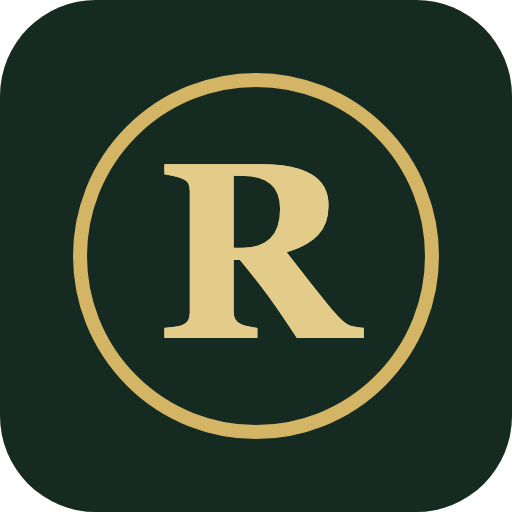
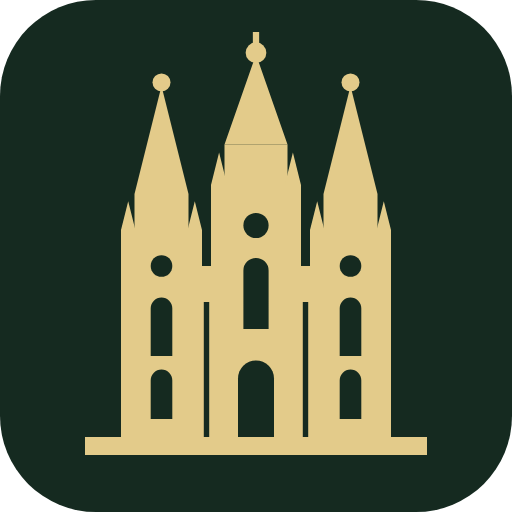
Apply review changes to the header and home page
Replace the R logo with a gold Salt Lake Temple and make the whole
site name gold. On the home page, drop the hero buttons, the record
counts and the line under the four cards, shorten the hero, and
show the featured place, person and revelation as a map, a portrait
and a page of scripture.

Changed region(s): [[0.125, 0.0625, 0.875, 0.9062]]

diff --git a/app/javascript/controllers/minimap_controller.js b/app/javascript/controllers/minimap_controller.js
@@ -1,0 +1,31 @@
+import { Controller } from "@hotwired/stimulus"
+import L from "leaflet"
+
+// A small, still map with one pin, used as a picture of where a place is.
+// It cannot be dragged or zoomed; the card it sits in is the link.
+export default class extends Controller {
+  static values = { lat: Number, lng: Number, zoom: { type: Number, default: 6 } }
+
+  connect() {
+    const position = [this.latValue, this.lngValue]
+
+    this.map = L.map(this.element, {
+      zoomControl: false, dragging: false, scrollWheelZoom: false, doubleClickZoom: false,
+      boxZoom: false, keyboard: false, touchZoom: false, tap: false
+    }).setView(position, this.zoomValue)
+
+    L.tileLayer("https://tile.openstreetmap.org/{z}/{x}/{y}.png", {
+      maxZoom: 18,
+      attribution: "&copy; OpenStreetMap contributors"
+    }).addTo(this.map)
+
+    L.marker(position, {
+      interactive: false, keyboard: false,
+      icon: L.divIcon({ className: "", html: '<span class="map-pin map-pin-visited"></span>', iconSize: [32, 32], iconAnchor: [16, 16] })
+    }).addTo(this.map)
+  }
+
+  disconnect() {
+    this.map?.remove()
+  }
+}

diff --git a/public/400.html b/public/400.html
@@ -11,8 +11,8 @@
       body { margin: 0; min-height: 100vh; display: flex; flex-direction: column; background: #fbf8f1; color: #1e293b;
              font-family: "Source Sans 3", ui-sans-serif, system-ui, -apple-system, "Segoe UI", sans-serif; font-size: 1.125rem; line-height: 1.6; }
       header { background: #152a20; padding: 1rem 1.5rem; }
-      header a { color: #fbf8f1; font-family: Georgia, "Times New Roman", serif; font-size: 1.25rem; font-weight: 700; text-decoration: none; }
-      header span { color: #e3cb8a; font-weight: 400; }
+      header a { color: #e3cb8a; font-family: Georgia, "Times New Roman", serif; font-size: 1.25rem; font-weight: 700; text-decoration: none; }
+      header span { font-weight: 400; }
       main { flex: 1; display: flex; align-items: center; justify-content: center; padding: 3rem 1.5rem; }
       .box { max-width: 36rem; text-align: center; }
       .code { margin: 0; color: #6f581b; font-size: 0.875rem; font-weight: 600; letter-spacing: 0.15em; text-transform: uppercase; }

diff --git a/public/404.html b/public/404.html
@@ -11,8 +11,8 @@
       body { margin: 0; min-height: 100vh; display: flex; flex-direction: column; background: #fbf8f1; color: #1e293b;
              font-family: "Source Sans 3", ui-sans-serif, system-ui, -apple-system, "Segoe UI", sans-serif; font-size: 1.125rem; line-height: 1.6; }
       header { background: #152a20; padding: 1rem 1.5rem; }
-      header a { color: #fbf8f1; font-family: Georgia, "Times New Roman", serif; font-size: 1.25rem; font-weight: 700; text-decoration: none; }
-      header span { color: #e3cb8a; font-weight: 400; }
+      header a { color: #e3cb8a; font-family: Georgia, "Times New Roman", serif; font-size: 1.25rem; font-weight: 700; text-decoration: none; }
+      header span { font-weight: 400; }
       main { flex: 1; display: flex; align-items: center; justify-content: center; padding: 3rem 1.5rem; }
       .box { max-width: 36rem; text-align: center; }
       .code { margin: 0; color: #6f581b; font-size: 0.875rem; font-weight: 600; letter-spacing: 0.15em; text-transform: uppercase; }

diff --git a/public/422.html b/public/422.html
@@ -11,8 +11,8 @@
       body { margin: 0; min-height: 100vh; display: flex; flex-direction: column; background: #fbf8f1; color: #1e293b;
              font-family: "Source Sans 3", ui-sans-serif, system-ui, -apple-system, "Segoe UI", sans-serif; font-size: 1.125rem; line-height: 1.6; }
       header { background: #152a20; padding: 1rem 1.5rem; }
-      header a { color: #fbf8f1; font-family: Georgia, "Times New Roman", serif; font-size: 1.25rem; font-weight: 700; text-decoration: none; }
-      header span { color: #e3cb8a; font-weight: 400; }
+      header a { color: #e3cb8a; font-family: Georgia, "Times New Roman", serif; font-size: 1.25rem; font-weight: 700; text-decoration: none; }
+      header span { font-weight: 400; }
       main { flex: 1; display: flex; align-items: center; justify-content: center; padding: 3rem 1.5rem; }
       .box { max-width: 36rem; text-align: center; }
       .code { margin: 0; color: #6f581b; font-size: 0.875rem; font-weight: 600; letter-spacing: 0.15em; text-transform: uppercase; }

diff --git a/public/500.html b/public/500.html
@@ -11,8 +11,8 @@
       body { margin: 0; min-height: 100vh; display: flex; flex-direction: column; background: #fbf8f1; color: #1e293b;
              font-family: "Source Sans 3", ui-sans-serif, system-ui, -apple-system, "Segoe UI", sans-serif; font-size: 1.125rem; line-height: 1.6; }
       header { background: #152a20; padding: 1rem 1.5rem; }
-      header a { color: #fbf8f1; font-family: Georgia, "Times New Roman", serif; font-size: 1.25rem; font-weight: 700; text-decoration: none; }
-      header span { color: #e3cb8a; font-weight: 400; }
+      header a { color: #e3cb8a; font-family: Georgia, "Times New Roman", serif; font-size: 1.25rem; font-weight: 700; text-decoration: none; }
+      header span { font-weight: 400; }
       main { flex: 1; display: flex; align-items: center; justify-content: center; padding: 3rem 1.5rem; }
       .box { max-width: 36rem; text-align: center; }
       .code { margin: 0; color: #6f581b; font-size: 0.875rem; font-weight: 600; letter-spacing: 0.15em; text-transform: uppercase; }

diff --git a/test/integration/home_page_test.rb b/test/integration/home_page_test.rb
@@ -1,13 +1,12 @@
 require "test_helper"
 
 class HomePageTest < ActionDispatch::IntegrationTest
-  test "shows the hero and both calls to action" do
+  test "shows a compact hero with no buttons" do
     get root_path
 
     assert_response :success
     assert_select "h1", text: "Explore the Restoration"
-    assert_select "a[href=?]", timeline_path, text: "Explore the Timeline"
-    assert_select "a[href=?]", road_trip_path, text: "Start the Road Trip"
+    assert_select "section:first-of-type a", count: 0
   end
 
   test "shows the four navigation cards" do
@@ -25,7 +24,7 @@ class HomePageTest < ActionDispatch::IntegrationTest
     assert_select "#featured-heading", count: 0
   end
 
-  test "shows an event that happened on this day" do
+  test "shows a banner for an event that happened on this day" do
     create_event
     create_event("First Vision", start_date: Date.new(1820, 3, 1), date_precision: "year", category: "revelations", period: "new_york")
 
@@ -33,31 +32,43 @@ class HomePageTest < ActionDispatch::IntegrationTest
       get root_path
     end
 
-    assert_select "a[href=?]", event_path("kirtland-temple-dedication") do
-      assert_select "p", text: "On this day in Church history"
-    end
+    assert_select "section[aria-label='On this day in Church history'] a[href=?]", event_path("kirtland-temple-dedication"),
+      text: /March 27, 1836: Kirtland Temple dedication/
   end
 
-  test "falls back to a featured event on other days" do
+  test "shows no banner on other days" do
     create_event
 
     travel_to Time.zone.local(2026, 11, 18, 12) do
       get root_path
     end
 
-    assert_select "a[href=?]", event_path("kirtland-temple-dedication") do
-      assert_select "p", text: "Featured event"
-    end
+    assert_select "section[aria-label='On this day in Church history']", count: 0
   end
 
-  test "features a person and a revelation and counts the records" do
-    create_person
-    create_revelation(76, received_on: Date.new(1832, 2, 16))
+  test "features a place as a map, a person as a portrait and a revelation as a page" do
+    create_place(state: "Ohio", latitude: 41.6253, longitude: -81.3622, trail_order: 4, summary: "Site of the first temple.")
+    create_place("Unmapped")
+    create_person(clues: [ "I was born in Vermont in 1805." ], roles: "Prophet")
+    create_revelation(76, received_on: Date.new(1832, 2, 16), summary: "A vision of the kingdoms of glory.")
 
     get root_path
 
-    assert_select "a[href=?]", person_path("joseph-smith")
-    assert_select "a[href=?]", revelation_path("doctrine-and-covenants-76"), text: /D&C 76/
-    assert_select "dl dt", text: "people"
+    assert_select "article a[href=?]", road_trip_path(place: "kirtland"), text: "Kirtland"
+    assert_select "[data-controller=minimap][data-minimap-lat-value='41.6253'][data-minimap-lng-value='-81.3622']"
+    assert_select "article span", text: "Stop 4 on the road trip"
+
+    assert_select "article a[href=?]", person_path("joseph-smith"), text: "Joseph Smith"
+    assert_select "article blockquote", text: /I was born in Vermont in 1805/
+    assert_select "article span", text: "JS"
+
+    assert_select "article a[href=?]", revelation_path("doctrine-and-covenants-76"), text: /Section\s+76/
+    assert_select "article p", text: "A vision of the kingdoms of glory."
+  end
+
+  test "no longer shows record counts" do
+    create_event
+    get root_path
+    assert_select "dl", count: 0
   end
 end

diff --git a/app/controllers/pages_controller.rb b/app/controllers/pages_controller.rb
@@ -2,12 +2,12 @@ class PagesController < ApplicationController
   def home
     today = Date.current
 
+    # Shown only on days when something in the database happened.
     @on_this_day = Event.on_this_day(today).chronological.first
-    @featured_event = @on_this_day || pick_for(today, Event.chronological)
-    @featured_person = pick_for(today, Person.order(:name))
-    @featured_revelation = pick_for(today, Revelation.order(:section_number))
 
-    @counts = { "events" => Event.count, "places" => Place.count, "people" => Person.count, "revelations" => Revelation.count }
+    @featured_place = pick_for(today, Place.mapped.order(:name))
+    @featured_person = pick_for(today, Person.order(:name))
+    @featured_revelation = pick_for(today, Revelation.where.not(section_number: nil).order(:section_number))
   end
 
   private

diff --git a/test/system/visitor_journey_test.rb b/test/system/visitor_journey_test.rb
@@ -5,7 +5,7 @@ require "application_system_test_case"
 class VisitorJourneyTest < ApplicationSystemTestCase
   test "a visitor follows Liberty Jail across the whole site" do
     visit root_path
-    click_on "Explore the Timeline"
+    click_on "Interactive Timeline"
 
     # Timeline: choose Liberty Jail and read it in the panel.
     assert_selector "h1", text: "Interactive Timeline"
